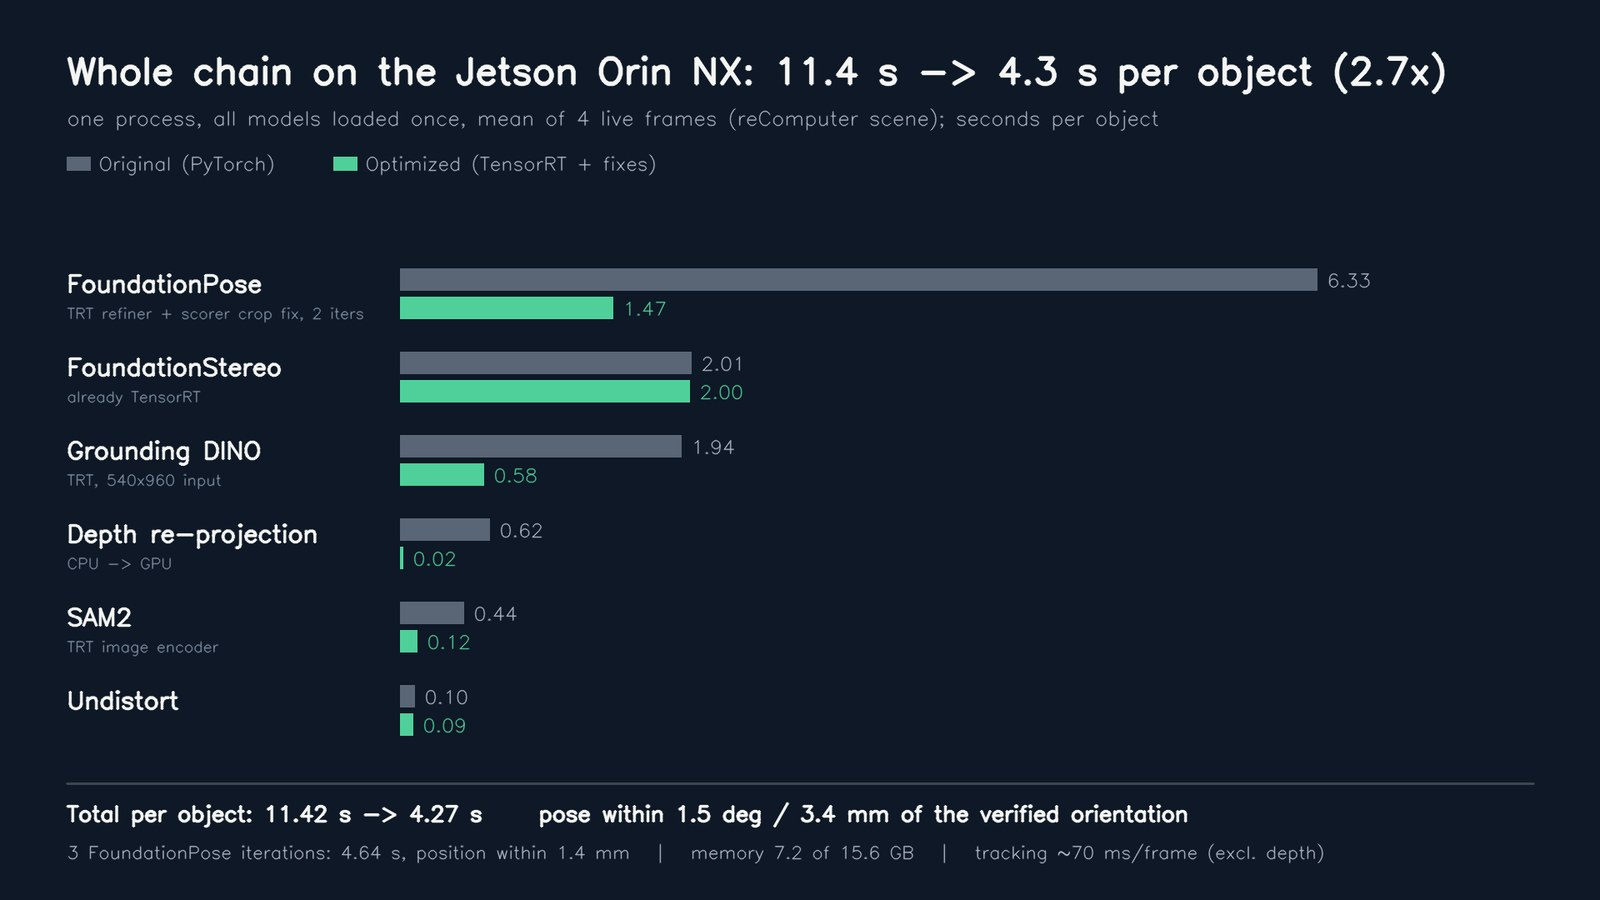
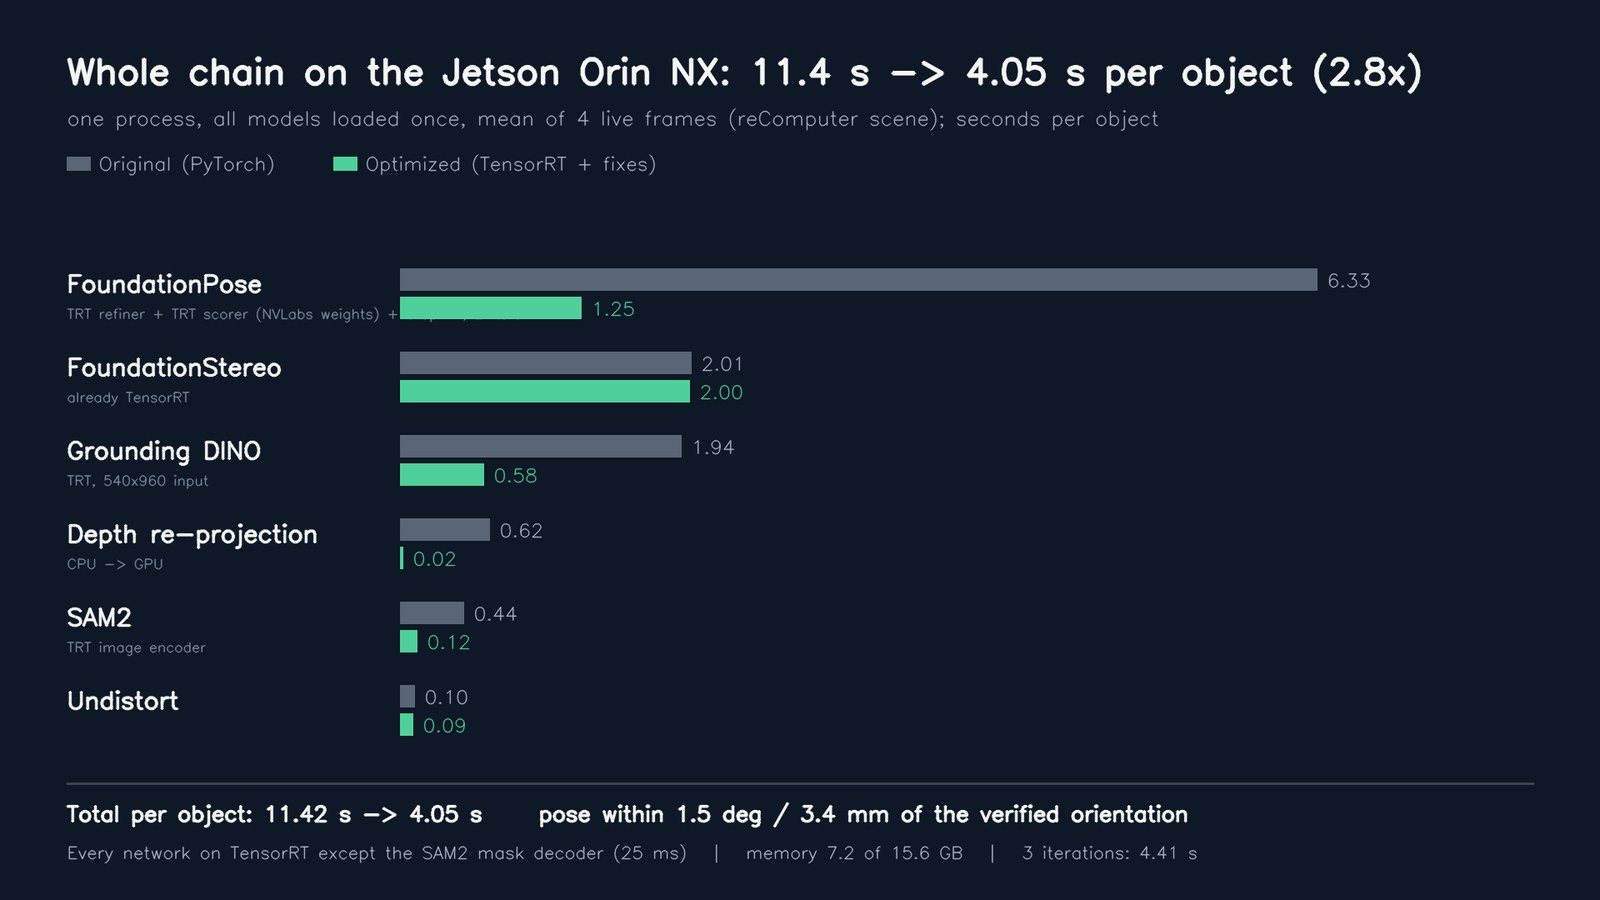
16GB correction: whole chain now 4.05 s/object (TensorRT scorer too)
Claude-Session: https://claude.ai/code/session_01Yaz8iCrGDFm35wtKRrcYWg

diff --git a/docs/posts/jetson-foundationpose-16gb.ko.md b/docs/posts/jetson-foundationpose-16gb.ko.md
@@ -26,7 +26,7 @@ description: "2부에서 '16GB 엣지 컴퓨터로는 증명까지, 실전은 64
 - **레시피: 보드부터 비운다.** 유휴 컨테이너를 끄고 페이지 캐시를 비우면 여유 메모리가 **663MB → 14GB**, 가장 큰 연속 블록이 **~12MB → ~1.2GB**로 돌아온다. 여기에 **워크스페이스 상한**(`--memPoolSize`)과 **최적화 레벨 상향**을 얹으면 엔진이 구워진다.
 - **결과: 피크 ~6.2GB / 16GB.** 엔진 빌드 + 노드 라이브 6-DoF가, 검출 앞단까지 함께 올려도 9GB 넘게 여유를 두고 16GB 안에 들어온다. 16GB의 벽은 **엔진을 굽는 순간**에만 있었지, 실행에는 없었다.
 - **FoundationPose만이 아니다. 스택 전체가 16GB에서 동작한다.** 마지막 하나 FoundationStereo까지 뚫었고(해상도↓ + FP32), 검출 → 마스크 → 자세 4모델을 **동시에 올려도 피크 8.2GB / 16GB**로 들어온다.
-- **실제 카메라로도 확인했다(2026-09-28).** 글자 지시 → 검출 → 마스크 → 깊이 → 6-DoF 자세까지 전체 체인이 Orin NX 16GB에서 물체당 **4.3초**(최적화 전 11.4초), 첫 자세 1.8초, 이후 추적 프레임당 약 70ms. 앞뒤가 비슷한 물체는 CAD에 색을 살려 넣어야 방향이 맞는다.
+- **실제 카메라로도 확인했다(2026-09-28).** 글자 지시 → 검출 → 마스크 → 깊이 → 6-DoF 자세까지 전체 체인이 Orin NX 16GB에서 물체당 **4.1초**(최적화 전 11.4초), 첫 자세 1.8초, 이후 추적 프레임당 약 70ms. 앞뒤가 비슷한 물체는 CAD에 색을 살려 넣어야 방향이 맞는다.
 - **교훈:** "엔진을 못 굽는다"와 "못 실행한다"는 다른 말이다. 그리고 하드웨어를 탓하기 전에 **뭐가 메모리를 먹고 있는지** 먼저 보라.
 
 ---
@@ -160,9 +160,9 @@ description: "2부에서 '16GB 엣지 컴퓨터로는 증명까지, 실전은 64
 - **정답 자세와 비교한 값이 아닙니다.** 방향 특징, 실루엣, 반복성을 본 자기 일관성 검사예요. 절대 정확도는 따로 재야 합니다.
 - **CAD가 정확해야 합니다.** 크기가 다른 비슷한 모델의 CAD를 넣어도 그럴듯한 상자가 나옵니다(IoU 0.78, 맞는 CAD는 0.92). 겉보기로는 구분이 어려우니, CAD 치수를 실물과 먼저 대조해야 합니다.
 
-속도도 더 줄였습니다. 모든 모델을 한 프로세스에 한 번만 올려 두고, 검출기와 SAM2, FoundationPose의 정제 단계를 TensorRT 엔진으로 바꾸고, 느리던 코드 두 곳을 고쳤더니 물체 하나에 **11.4초 → 4.3초**가 됐습니다. 자세 결과는 그대로이고, 메모리는 16GB 중 7.2GB를 씁니다. 이제 가장 오래 걸리는 건 FoundationStereo(2.0초)로, 전체의 절반쯤입니다.
+속도도 더 줄였습니다. 모든 모델을 한 프로세스에 한 번만 올려 두고, 검출기와 SAM2, FoundationPose의 정제·채점 단계를 TensorRT 엔진으로 바꾸고, 느리던 코드 두 곳을 고쳤더니 물체 하나에 **11.4초 → 4.1초**가 됐습니다. 자세 결과는 그대로이고, 메모리는 16GB 중 7.2GB를 씁니다. 이제 가장 오래 걸리는 건 FoundationStereo(2.0초)로, 전체의 절반쯤입니다.
 
-![같은 체인, 같은 Orin NX — TensorRT와 코드 수정으로 물체당 11.4초에서 4.3초로](../assets/demos/jetson-live-chain-speed.jpg)
+![같은 체인, 같은 Orin NX — TensorRT와 코드 수정으로 물체당 11.4초에서 4.1초로](../assets/demos/jetson-live-chain-speed.jpg)
 
 솔직한 단서 두 개도 남깁니다.
 

diff --git a/docs/posts/jetson-foundationpose-16gb.en.md b/docs/posts/jetson-foundationpose-16gb.en.md
@@ -26,7 +26,7 @@ Then, digging through the forums, I found **success cases on the same 16 GB boar
 - **The recipe: free the board first.** Stop idle containers and drop the page cache and free memory jumps **663 MB → 14 GB**, the largest contiguous block returns **~12 MB → ~1.2 GB**. Add a **workspace cap** (`--memPoolSize`) and a **higher optimization level**, and the engine bakes.
 - **Result: ~6.2 GB peak / 16 GB.** Engine build plus a live 6-DoF node — with the detector front-end loaded too — fit inside 16 GB with over 9 GB to spare. The 16 GB wall existed only **at the moment of baking the engine**, not at run time.
 - **It's not just FoundationPose — the whole stack runs on 16 GB.** The last holdout, FoundationStereo, fell too (lower resolution + FP32), and the four-model detect → mask → pose chain fits **at 8.2 GB / 16 GB even with all of them resident at once.**
-- **Confirmed on a real camera too (2026-09-28).** The whole chain, text prompt → detection → mask → depth → 6-DoF pose, runs on the Orin NX 16 GB at **4.3 s per object** (11.4 s before optimization): first pose 1.8 s, then tracking at about 70 ms per frame. Objects whose front and back look alike need a CAD that keeps its colours, or the orientation can come out flipped.
+- **Confirmed on a real camera too (2026-09-28).** The whole chain, text prompt → detection → mask → depth → 6-DoF pose, runs on the Orin NX 16 GB at **4.1 s per object** (11.4 s before optimization): first pose 1.8 s, then tracking at about 70 ms per frame. Objects whose front and back look alike need a CAD that keeps its colours, or the orientation can come out flipped.
 - **Lesson:** "can't build the engine" and "can't run it" are different sentences. And before you blame the hardware, look at **what's eating the memory.**
 
 ---
@@ -160,9 +160,9 @@ So there are three cautions when reading these numbers:
 - **They are not measured against a ground-truth pose.** They are self-consistency checks: orientation features, silhouette and repeatability. Absolute accuracy has to be measured separately.
 - **The CAD has to be the right one.** A CAD of a similar model with a different size still produces a plausible-looking box (IoU 0.78, versus 0.92 for the correct CAD). That is hard to tell by eye, so check the CAD's dimensions against the real part first.
 
-Speed came down further too. With every model loaded once in a single process, the detector, SAM2 and FoundationPose's refinement step moved to TensorRT engines, and two slow code paths fixed, one object now takes **4.3 s instead of 11.4 s**. The pose result is unchanged, and memory use is 7.2 of 16 GB. The slowest stage is now FoundationStereo (2.0 s), about half the total.
+Speed came down further too. With every model loaded once in a single process, the detector, SAM2 and FoundationPose's refinement and scoring steps moved to TensorRT engines, and two slow code paths fixed, one object now takes **4.1 s instead of 11.4 s**. The pose result is unchanged, and memory use is 7.2 of 16 GB. The slowest stage is now FoundationStereo (2.0 s), about half the total.
 
-![Same chain, same Orin NX: TensorRT and code fixes take it from 11.4 s to 4.3 s per object](../assets/demos/jetson-live-chain-speed.jpg)
+![Same chain, same Orin NX: TensorRT and code fixes take it from 11.4 s to 4.1 s per object](../assets/demos/jetson-live-chain-speed.jpg)
 
 Two honest footnotes:
 
